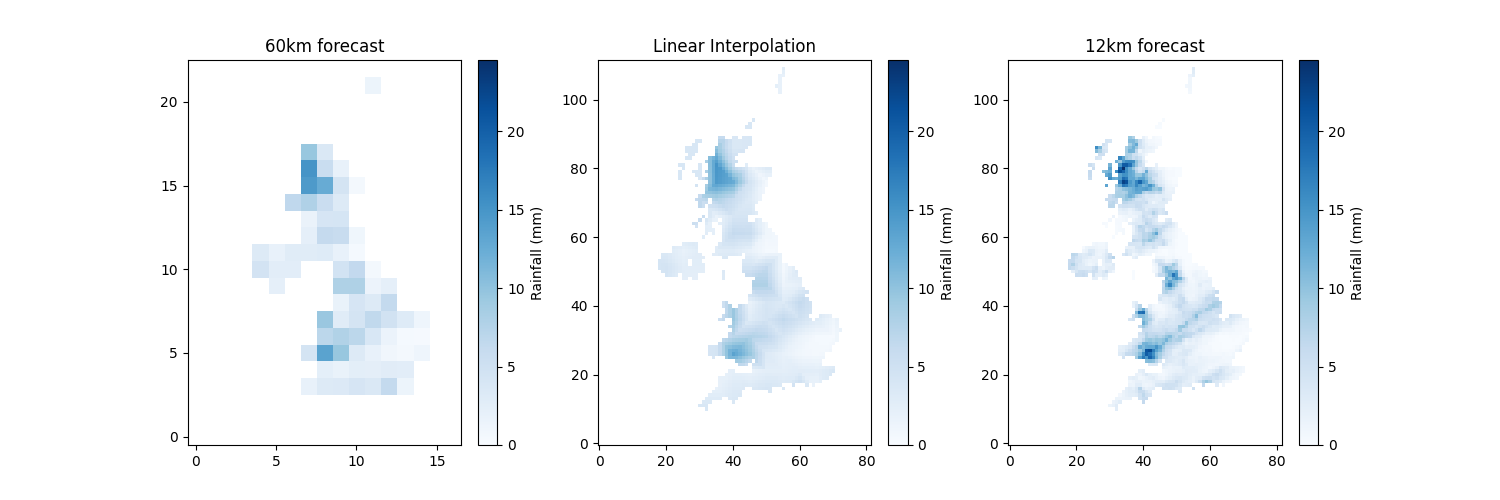
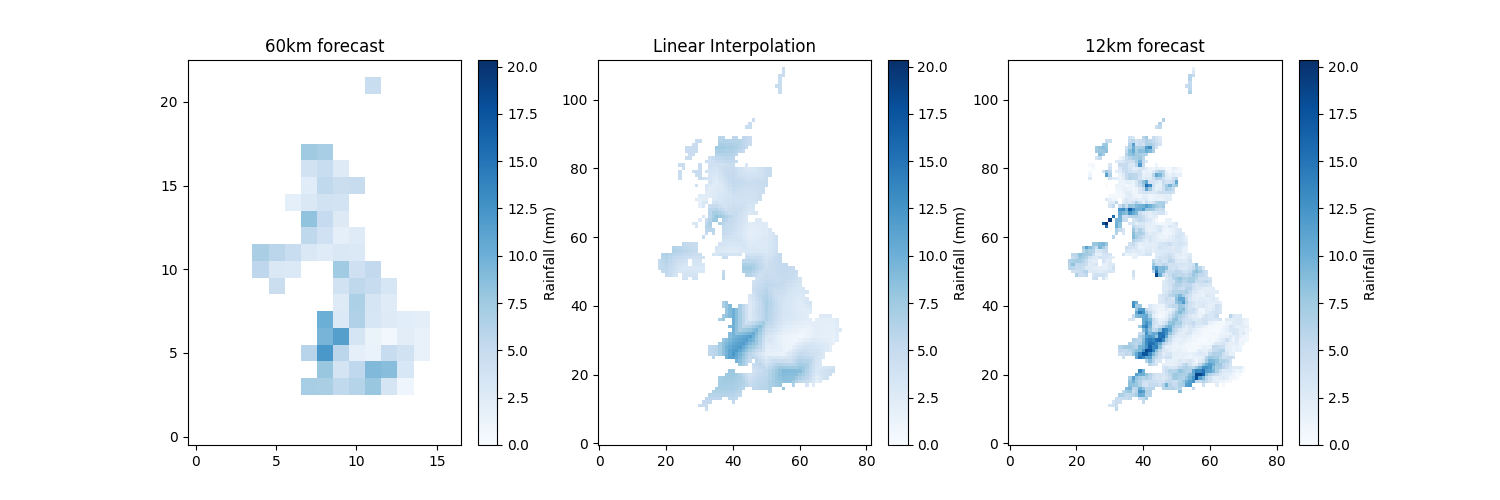
EvaluateModel

diff --git a/evaluate_model.py b/evaluate_model.py
@@ -1,11 +1,40 @@
-def evaluate_model(model1, test_time):
-            last_day = calendar.monthrange(year, int(month))[1]
-            X_file_path = f"Data/{low_res}km/Rainfall/rainfall_hadukgrid_uk_{low_res}km_day_{year}{month}01-{year}{month}{last_day}.nc"
-            
-    # Predict values using mode1
+import calendar 
 
+def evaluate_model(model1, low_res, high_res, year, month):
+        last_day = calendar.monthrange(year, int(month))[1]
+        X_file_path = f"Data/{low_res}km/Rainfall/rainfall_hadukgrid_uk_{low_res}km_day_{year}{month}01-{year}{month}{last_day}.nc"
+                
+        new_12 = f"Data/12km/Rainfall/rainfall_hadukgrid_uk_12km_day_{year}{month}01-{year}{month}{last_day}.nc"
+        new_60 = f"Data/60km/Rainfall/rainfall_hadukgrid_uk_60km_day_{year}{month}01-{year}{month}{last_day}.nc"
 
-    # Calculate mean squared error 
+        time_for_image = 0
 
+        # Load and preprocess the new_60 data
+        with xr.open_dataset(new_60) as ds_new_60:
+                data_slice = ds_new_60.isel(time=time_for_image)
+                X_new_60 = data_slice['rainfall'].values
+                nan_mask_X_new_60 = np.isnan(X_new_60)
+                X_new_60_masked = np.where(nan_mask_X_new_60, 0, X_new_60)
+                X_new_60_flat = X_new_60_masked.reshape((1, -1))  # Reshape to match the input shape of the model
+                print(X_new_60_flat.shape) 
 
-    return model1 
+        # Make predictions on the new_60 data
+        predictions_new_60 = model.predict(X_new_60_flat)
+
+        # Reshape predictions to match the original shape of y_test
+        predictions_new_60_reshaped = predictions_new_60.reshape((predictions_new_60.shape[0], y_test.shape[1], y_test.shape[2]))
+
+        # Load and preprocess the corresponding new_12 data for comparison
+        with xr.open_dataset(new_12) as ds_new_12:
+                data_slice = ds_new_12.isel(time=time_for_image)
+                y_new_12 = data_slice['rainfall'].values
+
+        X_new_60_flat = X_new_60_flat.reshape((X_new_60_flat.shape[0], X_test.shape[1], X_test.shape[2]))
+
+        # Apply the NaN mask to predictions to match the pattern in y_train
+        predictions_new_60_reshaped[0][nan_mask_y_train[0]] = np.nan
+
+        # Evaluate the model 
+        loss = np.nanmean((predictions_new_60_reshaped[0] - y_new_12)**2)
+
+        return loss

diff --git a/main.py b/main.py
@@ -7,14 +7,28 @@
 # downscale low resolution forecasts
 
 import data
+import numpy as np 
 from model import create_model, compile_model
+from evaluate_model import evaluate_model
 
 def main():
-    X_paths, y_paths = data.generate_rainfall_paths(2010, 2019, 60, 12)
+    X_paths, y_paths = data.generate_rainfall_paths(2000, 2019, 60, 12)
 
     X, y = data.load_data(X_paths, y_paths)
 
     X_train, X_test, y_train, y_test = data.test_train_split(X, y, 0.2, random_state=10)
+
+    # Create masks for NaN values in X_train and y_train for the entire dataset
+    nan_mask_X_train = np.isnan(X_train)
+    nan_mask_y_train = np.isnan(y_train)
+
+    # Fill NaN values with zeros or any other appropriate value for each dataset
+    X_train_masked = np.where(nan_mask_X_train, 0, X_train)
+    y_train_masked = np.where(nan_mask_y_train, 0, y_train)
+
+    # Flatten the input data
+    X_train_flat = X_train_masked.reshape((X_train_masked.shape[0], -1))
+    X_test_flat = X_test.reshape((X_test.shape[0], -1))
 
     # Define parameters
     input_shape = X_train_flat.shape[1:]
@@ -27,15 +41,30 @@ def main():
     # Train Model 1
     history1 = model1.fit(X_train_flat, y_train_masked.reshape((y_train_masked.shape[0], -1)), epochs=5, batch_size=32, validation_split=0.1)
 
+
+
+    ### Reshape for CNN 
+    X_train_reshaped = X_train.reshape((X_train.shape[0], 23, 17, 1))
+    X_test_reshaped = X_test.reshape((X_test.shape[0], 23, 17, 1))
+
+    # Define parameters
+    input_shape = X_train_reshaped.shape[1:]
+
     # Create and compile Model 2
     model2 = create_model(input_shape, output_shape, model_type=2)
     model2 = compile_model(model2)
 
     # Train Model 2
-    history2 = model2.fit(X_train_flat, y_train_masked.reshape((y_train_masked.shape[0], -1)), epochs=5, batch_size=32, validation_split=0.1)
+    history2 = model2.fit(X_train_reshaped, y_train_masked.reshape((y_train_masked.shape[0], -1)), epochs=5, batch_size=32, validation_split=0.1)
 
     # Evaluate both models on the same day
     ###  Create function 
+    loss = evaluate_model(model1, 60, 12, 2020, 1)
+    print(f'Test Loss: {loss}')
+    
+
+    
+
     
 
 

diff --git a/example_workflow.py b/example_workflow.py
@@ -97,25 +97,23 @@ loss = np.nanmean((predictions_new_60_reshaped[0] - y_new_12)**2)
 print(f'Test Loss: {loss}')
 
 # Assuming predictions_new_60_reshaped, X_new_60, and y_new_12 are your data arrays
-plt.figure(figsize=(18, 6))
+plt.figure(figsize=(12, 8))
 
 # Plot original 60km data
-plt.subplot(1, 3, 1)
-cmap = plt.cm.Blues  # Choose your colormap
-cmap.set_bad(color=cmap(0.0))
-plt.imshow(X_new_60_flat[0], cmap=cmap, origin='lower', aspect='auto', vmin=0, vmax=max_value)  # Set vmin and vmax
+plt.subplot(2, 1, 1)
+plt.imshow(X_new_60_flat[0], cmap='Blues', origin='lower', aspect='auto')
 plt.title('Original 60km')
 plt.colorbar()
 
 # Plot predicted data
-plt.subplot(1, 3, 2)
-plt.imshow(predictions_new_60_reshaped[0], cmap=cmap, origin='lower', aspect='auto', vmin=0, vmax=max_value)  # Set vmin and vmax
+plt.subplot(2, 2, 3)
+plt.imshow(predictions_new_60_reshaped[0], cmap='Blues', origin='lower', aspect='auto')
 plt.title('Predicted 12km')
 plt.colorbar()
 
 # Plot true data
-plt.subplot(1, 3, 3)
-plt.imshow(y_new_12, cmap=cmap, origin='lower', aspect='auto', vmin=0, vmax=max_value)  # Set vmin and vmax
+plt.subplot(2, 2, 4)
+plt.imshow(y_new_12, cmap='Blues', origin='lower', aspect='auto')
 plt.title('True 12km')
 plt.colorbar()
 

diff --git a/model.py b/model.py
@@ -1,7 +1,7 @@
 # model.py
-
+import numpy as np 
 from tensorflow.keras.models import Sequential
-from tensorflow.keras.layers import Dense, Flatten, Masking
+from tensorflow.keras.layers import Dense, Flatten, Masking, Conv2D, MaxPooling2D
 from tensorflow.keras.optimizers import Adam
 
 def create_model(input_shape, output_shape, model_type=1):
@@ -23,8 +23,11 @@ def create_model1(input_shape, output_shape):
 
 def create_model2(input_shape, output_shape):
     model = Sequential()
-    model.add(Flatten(input_shape=input_shape))
-    model.add(Dense(256, activation='relu'))
+    model.add(Conv2D(32, kernel_size=(3, 3), activation='relu', input_shape=input_shape))
+    model.add(MaxPooling2D(pool_size=(2, 2)))
+    model.add(Conv2D(64, kernel_size=(3, 3), activation='relu'))
+    model.add(MaxPooling2D(pool_size=(2, 2)))
+    model.add(Flatten())
     model.add(Dense(128, activation='relu'))
     model.add(Dense(np.prod(output_shape), activation='linear'))
     return model

diff --git a/linear_interpolation.py b/linear_interpolation.py
@@ -7,11 +7,11 @@ from scipy.ndimage import distance_transform_edt, binary_fill_holes
 
 #### Testing the model 
 
-new_12 = 'Data/12km/Rainfall/rainfall_hadukgrid_uk_12km_day_20220101-20220131.nc'
-new_60 = 'Data/60km/Rainfall/rainfall_hadukgrid_uk_60km_day_20220101-20220131.nc' 
+new_12 = 'Data/12km/Rainfall/rainfall_hadukgrid_uk_12km_day_20010401-20010430.nc'
+new_60 = 'Data/60km/Rainfall/rainfall_hadukgrid_uk_60km_day_20010401-20010430.nc' 
 
 # Define the time index for selecting data
-time_for_image = 0
+time_for_image = 27
 
 # Load and preprocess the new_60 data
 with xr.open_dataset(new_60) as ds_new_60:
@@ -84,6 +84,8 @@ plt.savefig('linear_interpolation_example.png')
 
 plt.tight_layout()
 plt.show()
+
+
 
 
 
